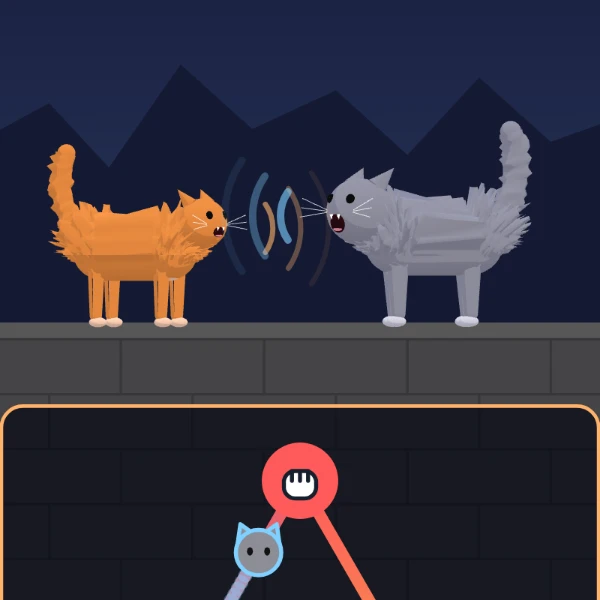
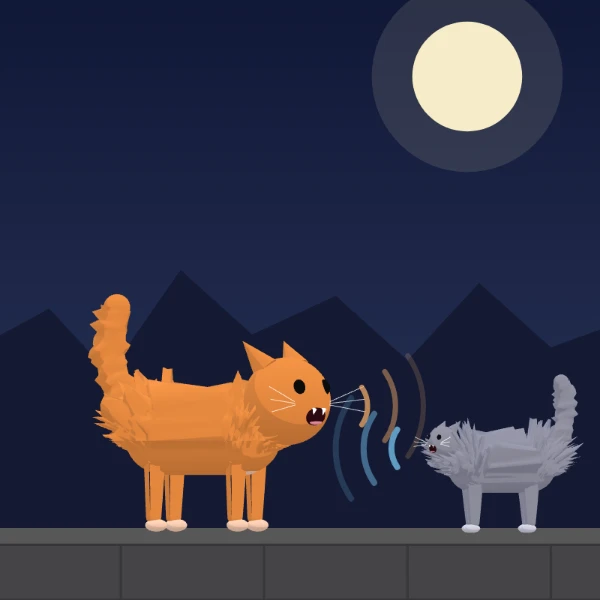
キャットファイター：サムネを操作の枠なしで撮り直す。決めごと：サムネにUIを入れない
Claude-Session: https://claude.ai/code/session_01JXmm1Vtd79CXkpP9y2He97

diff --git a/games/README.md b/games/README.md
@@ -93,6 +93,9 @@ node games/_tools/thumb.js hoge                    # 保存した条件で撮り
 `--width 430 --height 900`、`--query scene=3`、`-k なし` も使えます。
 乱数や実時間で動く場面は、同じ条件でも完全に同じ絵になるとは限りません。
 
+サムネ（一覧のアイコン・共有カードの絵）には、基本として操作の枠・ボタン・スコアなどのUIを入れません（2026-10-02 持ち主の指定）。
+ゲームの場面だけが写る位置で切り取るか、撮影用の指定でUIを隠します。別の指定がある場合はそちらを優先します。
+
 カメラ・場面・数字の非表示など、そのゲーム専用の条件は `thumbnail.setup` にオブジェクトで保存します。
 道具は開始キーより前に `await window.__thumbnail(setup)` を呼びます。ゲーム側にこの撮影用の関数を用意して、指定に対応させてください。
 たとえば `{ "scene": "result", "camera": "front", "numbers": false }` の意味はゲーム側で決めます。
